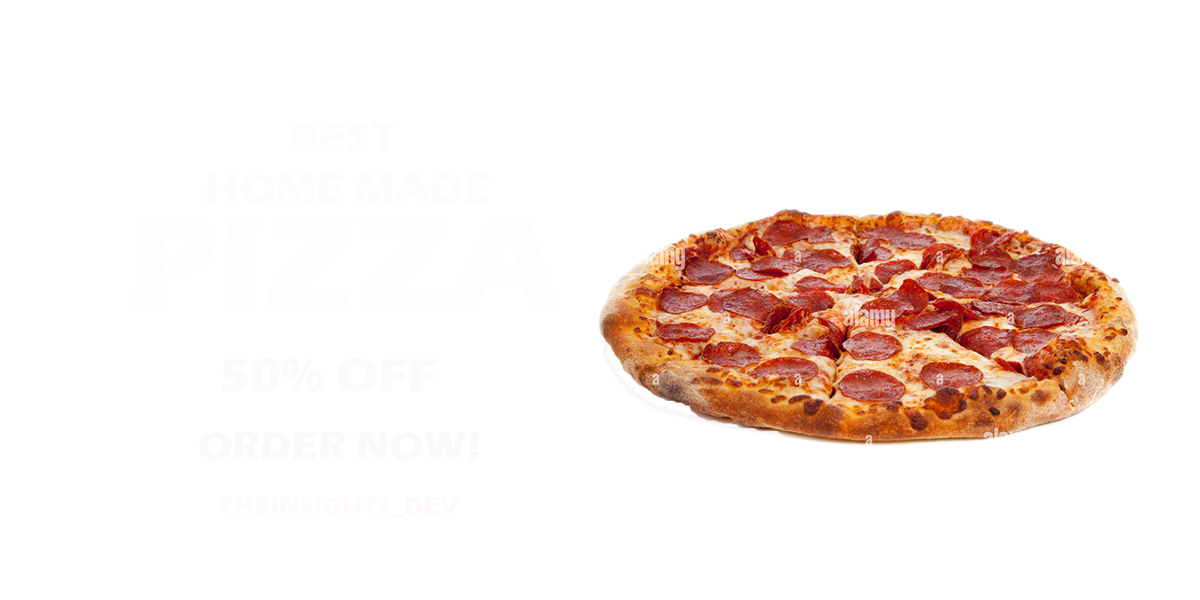
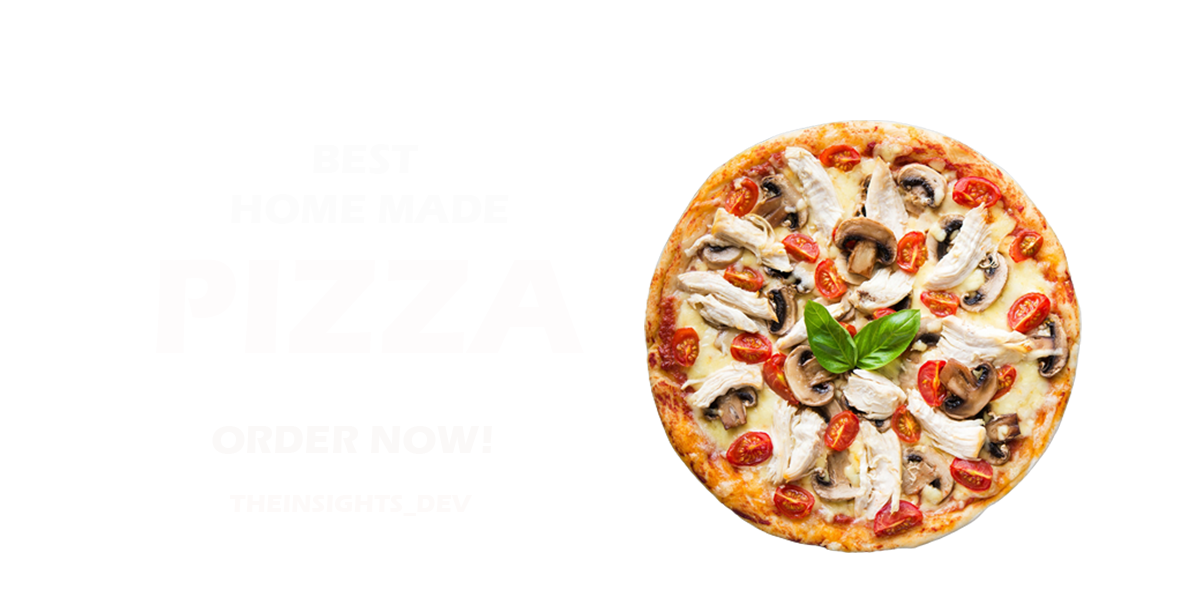
commit

Changed region(s): [[0.4933, 0.18, 0.9558, 0.93]]

diff --git a/components/Navbar.jsx b/components/Navbar.jsx
@@ -1,39 +1,38 @@
-    import Image from 'next/image'
-import React from 'react'
-    import styles from '../styles/Navbar.module.css'
-    
-    const Navbar = () => {
-      return (
-        <div className={styles.container}>
-            <div className={styles.item}>
-              <div className={styles.callButton}>
-                <Image src='/img/telephone.png' width='32' height='32' alt='' />
-              </div>
+import Image from 'next/image'
+import styles from '../styles/Navbar.module.css'
 
-              <div className={styles.texts}>
-              <div className={styles.text}>ORDER NOW!</div>
-              <div className={styles.text}>08063893054</div>
-              </div>
-            </div>
-            <div className={styles.item}>
-              <ul className={styles.list}>
-                <li className={styles.listItem}>Home</li>
-                <li className={styles.listItem}>Products</li>
-                <li className={styles.listItem}>Menu</li>
-                <li className={styles.listLogo}>Harfoo</li>
-                <li className={styles.listItem}>Events</li>
-                <li className={styles.listItem}>Blog</li>
-                <li className={styles.listItem}>Contact</li>
-              </ul>
-            </div>
-            <div className={styles.item}>
-              <div className={styles.cart}>
-              <Image src='/img/cart.png' width='30' height='30' alt='' />
-              <div className={styles.counter}>2</div>
-              </div>
-            </div>
+const Navbar = () => {
+  return (
+    <div className={styles.container}>
+      <div className={styles.item}>
+        <div className={styles.callButton}>
+          <Image src='/img/telephone.png' width='32' height='32' alt='' />
         </div>
-      )
-    }
-    
-    export default Navbar
+
+        <div className={styles.texts}>
+          <div className={styles.text}>ORDER NOW!</div>
+          <div className={styles.text}>08063893054</div>
+        </div>
+      </div>
+      <div className={styles.item}>
+        <ul className={styles.list}>
+          <li className={styles.listItem}>Home</li>
+          <li className={styles.listItem}>Products</li>
+          <li className={styles.listItem}>Menu</li>
+          <li className={styles.listLogo}>Harfoo</li>
+          <li className={styles.listItem}>Events</li>
+          <li className={styles.listItem}>Blog</li>
+          <li className={styles.listItem}>Contact</li>
+        </ul>
+      </div>
+      <div className={styles.item}>
+        <div className={styles.cart}>
+          <Image src='/img/cart.png' width='30' height='30' alt='' />
+          <div className={styles.counter}>2</div>
+        </div>
+      </div>
+    </div>
+  )
+}
+
+export default Navbar

diff --git a/components/Footer.jsx b/components/Footer.jsx
@@ -1,9 +1,60 @@
-import React from 'react'
+import styles from '../styles/Footer.module.css'
+import Image from 'next/image'
 
 const Footer = () => {
   return (
-    <div>
-        Footer 
+    <div className={styles.container}>
+      <div className={styles.item}>
+        <Image src='/img/bg.png' alt='' objectFit='cover' layout='fill' />
+      </div>
+
+      <div className={styles.item}>
+        <div className={styles.card}>
+          <h2 className={styles.motto}> 
+            OH YES, WE DID THEINSIGHTS PIZZA, WELL BAKED SLICED PIZZA
+          </h2>
+        </div>
+
+        <div className={styles.card}>
+          <h1 className={styles.title}>FIND OUR RESTAURANTS</h1>
+          <p className={styles.text}>
+              1456 Sleek Hotels Ikd. #304
+              <br />Lagos, Nigeria
+              <br /> (0806)-389-3054
+          </p>
+
+           <p className={styles.text}>
+              1456 Sleek Hotels Ikd. #304
+              <br />Lagos, Nigeria
+              <br /> (0806)-389-3054
+          </p>
+
+           <p className={styles.text}>
+              1456 Sleek Hotels Ikd. #304
+              <br />Lagos, Nigeria
+              <br /> (0806)-389-3054
+          </p>
+
+           <p className={styles.text}>
+              1456 Sleek Hotels Ikd. #304
+              <br />Lagos, Nigeria
+              <br /> (0806)-389-3054
+          </p>
+        </div>
+
+        <div className={styles.card}>
+          <h1 className={styles.title}>WORKING HOURS</h1>
+          <p className={styles.text}>
+              MONDAY TILL FRIDAY
+              <br /> 9:00 - 22:00
+          </p>
+
+          <p className={styles.text}>
+              SATURDAY - SUNDAY
+              <br /> 12:00 - 24:00
+          </p>
+        </div>
+      </div>
     </div>
   )
 }

diff --git a/components/PizzaCard.jsx b/components/PizzaCard.jsx
@@ -1,10 +1,17 @@
 import React from 'react'
+import Image from 'next/image'
+import styles from '../styles/PizzaCard.module.css'
 
 const PizzaCard = () => {
   return (
-    <div>
-        Pizza
-    </div>
+    <div className={styles.container}>
+        <Image src='/img/pizza.png' alt='' width='500' height='500' objectFit="cover"  />
+        <h1 className={styles.title}>Chicken Pizza</h1>
+        <span className={styles.price}>#1500</span>
+        <p className={styles.desc}>
+            Lorem ipsum dolor sit amet consectetur adipisicing elit.
+        </p>
+   </div>
   )
 }
 

diff --git a/styles/Footer.module.css b/styles/Footer.module.css
@@ -1,0 +1,36 @@
+.container{
+    height: calc(100vh - 100px);
+    background-color: #222;
+    display: flex;
+}
+
+.item{
+    flex: 1;
+    position: relative;
+    display: flex;
+}
+
+.item:last-child{
+    flex: 2;
+    justify-content: space-between;
+    padding: 50px;
+}
+
+.card{
+    flex: 1;
+    padding: 0 20px;
+}
+
+.title{
+    font-size: 18px;
+    color: #b7903c;
+}
+
+.text{
+    color: lightgray;
+}
+
+.motto{ 
+    color: rgb(141, 138, 138);
+}
+

diff --git a/styles/PizzaCard.module.css b/styles/PizzaCard.module.css
@@ -1,0 +1,27 @@
+.container{
+    width: 22%;
+    padding: 10px;
+    display: flex;
+    flex-direction: column;
+    align-items: center;
+    justify-content: center;
+    padding: 20px 40px;
+    cursor: pointer;
+}
+
+.title{
+    font-size: 18px;
+    font-weight: bold;
+    color:#d1411e;
+}
+
+.price{
+    font-size: 18px;
+    font-weight: bold;
+    color:#666;
+}
+
+.desc{
+    text-align: center;
+    color: #777;
+}

diff --git a/styles/PizzaList.module.css b/styles/PizzaList.module.css
@@ -1,3 +1,20 @@
 .container{
-    
+    display: flex;
+    padding: 20px 10px;
+    flex-direction: column;
+    align-items: center;
+}
+
+.desc{
+    font-size: 24px;
+    color: #444;
+    width: 70%;
+}
+
+.wrapper{
+    width: 100%;
+    display: flex;
+    flex-wrap: wrap;
+    align-items: center;
+    justify-content: center;
 }

diff --git a/components/Slider.jsx b/components/Slider.jsx
@@ -20,7 +20,6 @@ const Slider = () => {
     }
   }
 
-  console.log(slideIndex)
   return (
     <div className={styles.container}>
       <div className={styles.arrowContainer} style={{left:0}} onClick={()=> handleArrow('l')}>

diff --git a/components/PizzaList.jsx b/components/PizzaList.jsx
@@ -20,6 +20,7 @@ const PizzaList = () => {
             <PizzaCard />
             <PizzaCard />
             <PizzaCard />
+            <PizzaCard />
         </div>
     </div>
   )

diff --git a/pages/product/[id].jsx b/pages/product/[id].jsx
@@ -1,0 +1,11 @@
+import React from 'react'
+
+const Product = () => {
+  return (
+    <div>
+        
+    </div>
+  )
+}
+
+export default Product

diff --git a/styles/Navbar.module.css b/styles/Navbar.module.css
@@ -7,6 +7,7 @@
     justify-content: space-between;
     position: sticky;
     top:0;
+    z-index: 999;
 }
 
 .item{
